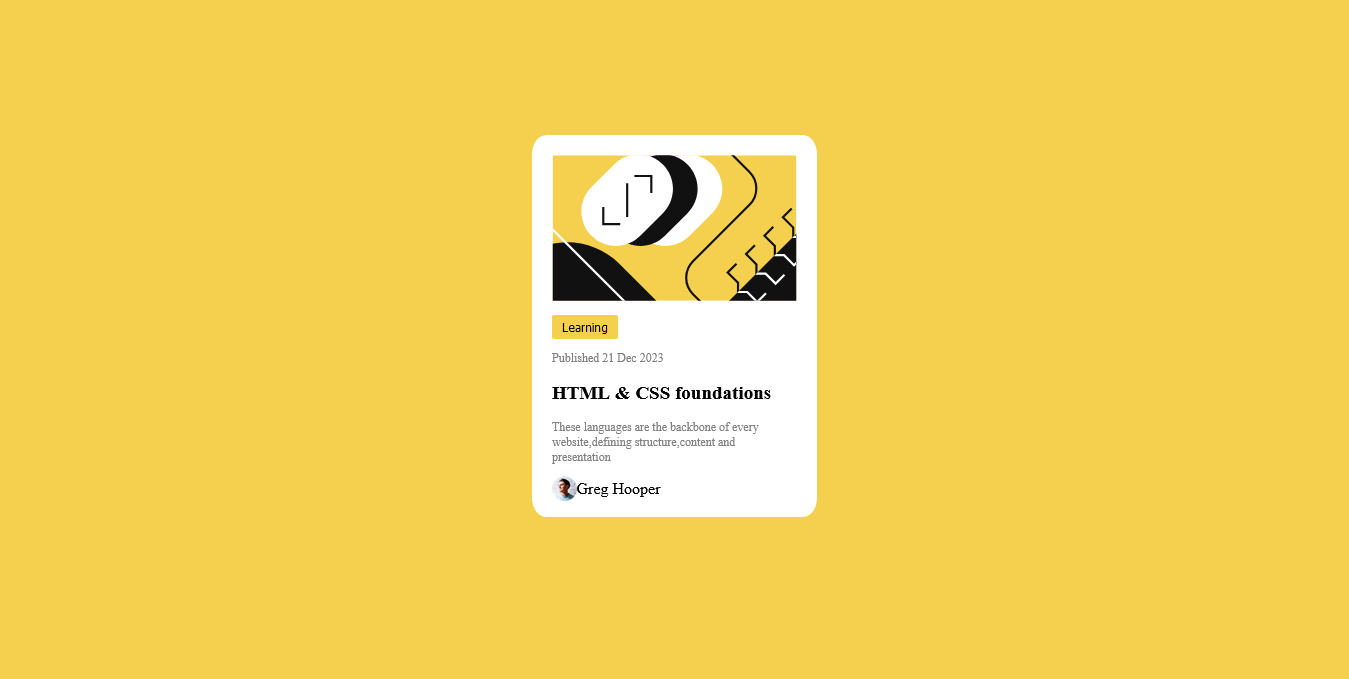
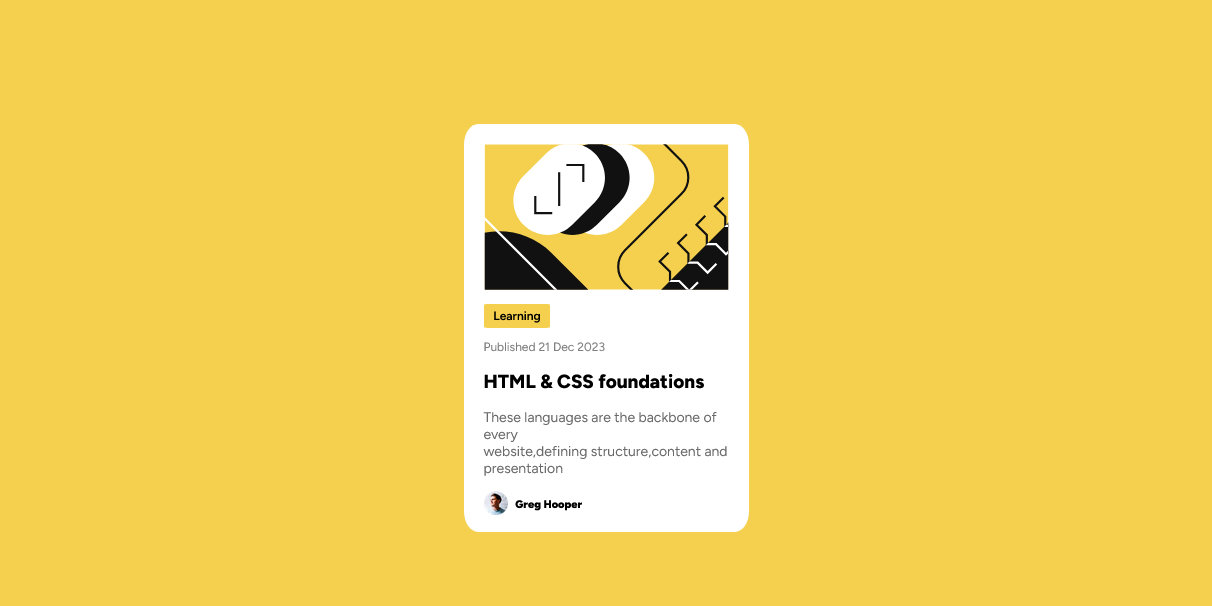
added screenshot

Changed region(s): [[0.3663, 0.1782, 0.6411, 0.8911]]

diff --git a/index.html b/index.html
@@ -1,29 +1,80 @@
 <!DOCTYPE html>
 <html lang="en">
-<head>
-  <meta charset="UTF-8">
-  <meta name="viewport" content="width=device-width, initial-scale=1.0"> <!-- displays site properly based on user's device -->
+  <head>
+    <meta charset="UTF-8" />
+    <meta name="viewport" content="width=device-width, initial-scale=1.0" />
+    <!-- displays site properly based on user's device -->
 
-  <link rel="icon" type="image/png" sizes="32x32" href="./assets/images/favicon-32x32.png">
+    <link
+      rel="icon"
+      type="image/png"
+      sizes="32x32"
+      href="./assets/images/favicon-32x32.png"
+    />
 
-  <!-- google fonts -->
-  <link rel="preconnect" href="https://fonts.googleapis.com">
-  <link rel="preconnect" href="https://fonts.gstatic.com" crossorigin>
-  <link href="https://fonts.googleapis.com/css2?family=Figtree:ital,wght@0,300..900;1,300..900&display=swap" rel="stylesheet">
+    <!-- google fonts -->
+    <link rel="preconnect" href="https://fonts.googleapis.com" />
+    <link rel="preconnect" href="https://fonts.gstatic.com" crossorigin />
+    <link
+      href="https://fonts.googleapis.com/css2?family=Figtree:ital,wght@0,300..900;1,300..900&display=swap"
+      rel="stylesheet"
+    />
 
-  <title>Blog preview card</title>
-</head>
-<body style="background-color:  hsl(47, 88%, 63%); font-family: figtree;">
-  <main style="min-height: 100vh; margin: auto; padding-top: 20px;">
-<div style="margin:auto; display: block; width: 245px; height: 100%; background-color: white; padding: 20px; border-radius: 5%; margin-top: 8%;">
-  <img src="./assets/images/illustration-article.svg" alt="Design 2" width="100%; margin-top: 20px; border-radius: 5%; center;">
-  <button style="background-color:   hsl(47, 88%, 63%); outline-color:  hsl(47, 88%, 63%);  border: none; font-size: 12px; margin-top: 10px; border-radius: 5%; padding: 2%; padding-left: 4%; padding-right: 4%; font-weight: 500;">Learning</button> 
-   <p style="font-size: 12px; color: grey;">Published 21 Dec 2023</p>
-   <h2 style="font-size: 19px; font-weight: 800;">HTML & CSS foundations</h2>
-   <p style="font-size: 12px; color:  hsl(0, 0%, 42%);">These languages are the backbone of every<br>website,defining structure,content and<br>presentation
- </p>
- <span>
-  <img src="./assets/images/image-avatar.webp" alt="Avatar" width="10%" style="margin-bottom: -3%; font-size: 10px;">Greg Hooper </span>
-</div>
-</main>
-</body>
+    <title>Blog preview card</title>
+  </head>
+  <body style="background-color: hsl(47, 88%, 63%); font-family: figtree">
+    <main style="min-height: 100vh; margin: auto; padding-top: 20px">
+      <div
+        style="
+          margin: auto;
+          display: block;
+          width: 245px;
+          height: 100%;
+          background-color: white;
+          padding: 20px;
+          border-radius: 5%;
+          margin-top: 8%;
+        "
+      >
+        <img
+          src="./assets/images/illustration-article.svg"
+          alt="Design 2"
+          width="100%; margin-top: 20px; border-radius: 5%; center; height: 150px;"
+        />
+        <button
+          style="
+            background-color: hsl(47, 88%, 63%);
+            outline-color: hsl(47, 88%, 63%);
+            border: none;
+            font-size: 12px;
+            margin-top: 10px;
+            border-radius: 5%;
+            padding: 2%;
+            padding-left: 4%;
+            padding-right: 4%;
+            font-weight: 600;
+            font-family: figtree;
+          "
+        >
+          Learning
+        </button>
+        <p style="font-size: 12px; color: grey">Published 21 Dec 2023</p>
+        <h2 style="font-size: 19px; font-weight: 800">
+          HTML & CSS foundations
+        </h2>
+        <p style="font-size: 14px; color: hsl(0, 0%, 42%)">
+          These languages are the backbone of every<br />website,defining
+          structure,content and<br />presentation
+        </p>
+        <div>
+          <img
+            src="./assets/images/image-avatar.webp"
+            alt="Avatar"
+            width="10%"
+            style="margin-bottom: -3%; font-size: 10px; padding-right: 3%"
+          /><span style="font-weight: 900; font-size: 11px">Greg Hooper</span>
+        </div>
+      </div>
+    </main>
+  </body>
+</html>
